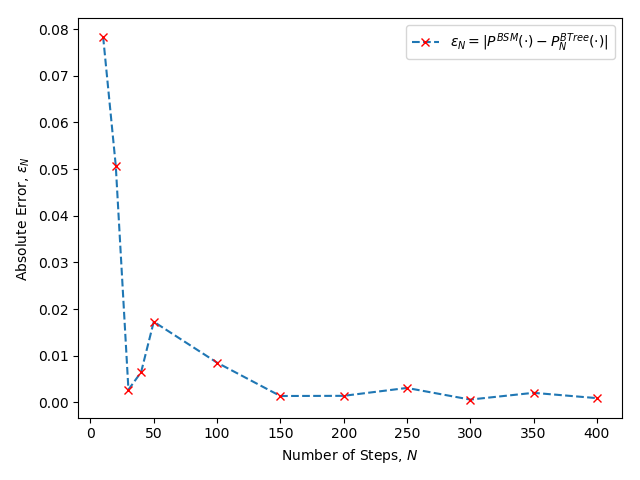
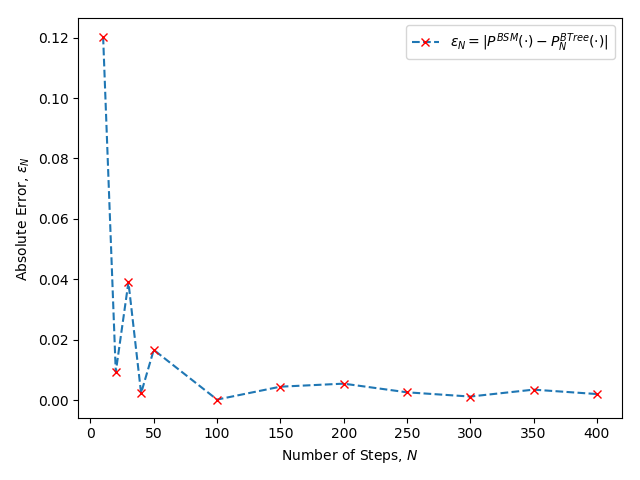
Changed arbitrary error computation to reflect smaller dataset. Recomputed values and re-plotted graph

diff --git a/Homework 2/question_solutions/question_1_abs_error.py b/Homework 2/question_solutions/question_1_abs_error.py
@@ -16,8 +16,8 @@ computed_prices = pd.DataFrame()
 steps = [10, 20, 30, 40, 50,100, 150, 200, 250, 300, 350, 400]
 
 # Candidate Put option metadata
-option_name = 'SPY190315P00260000'
-strike = 260.0
+option_name = 'SPY190315P00265000'
+strike = 265.0
 ttm = fe621.util.getTTM(name=option_name, current_date=cfg.data2_date)
 implied_vol = hw2_data.loc[option_name]['implied_vol']
 
